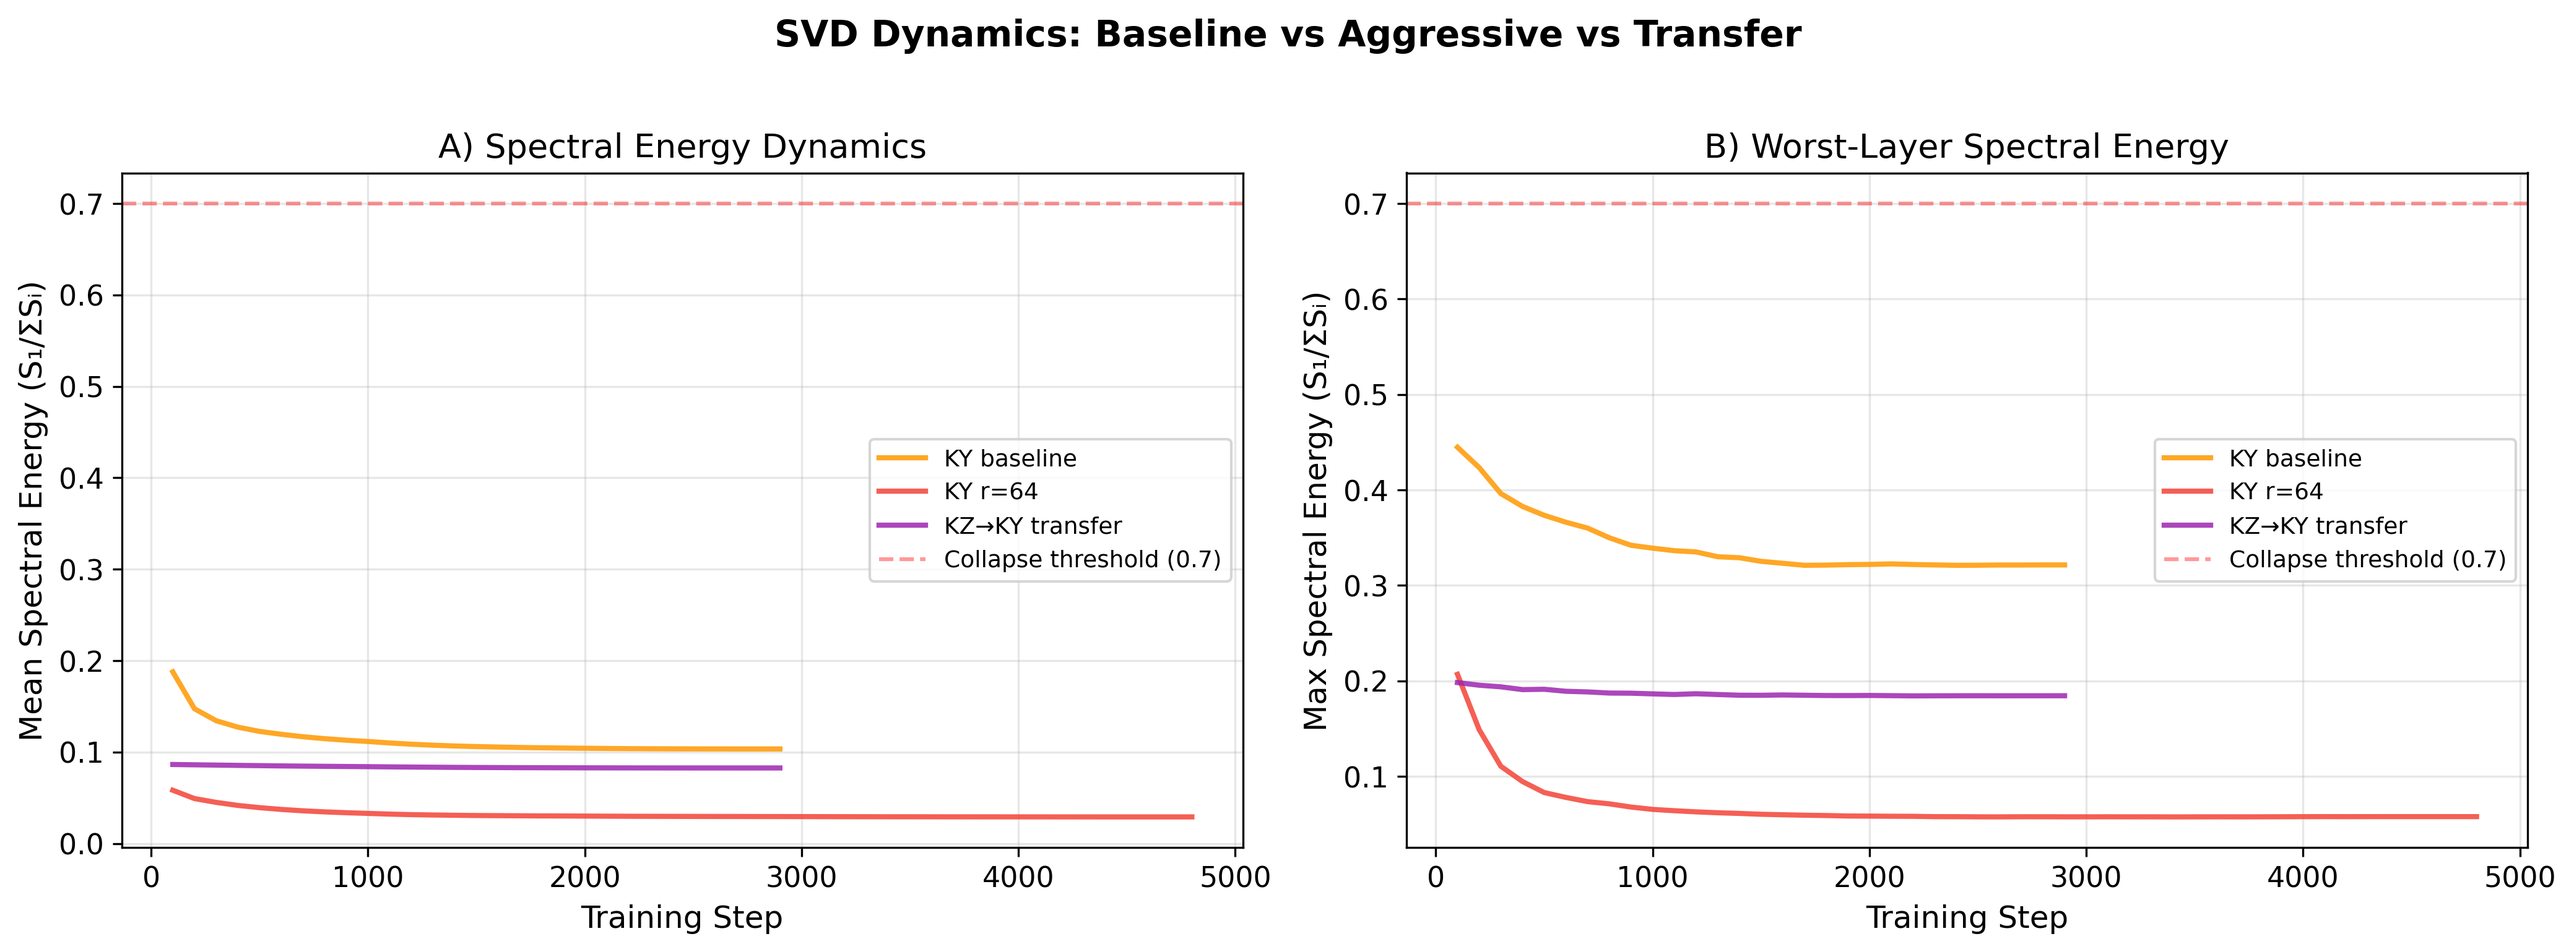
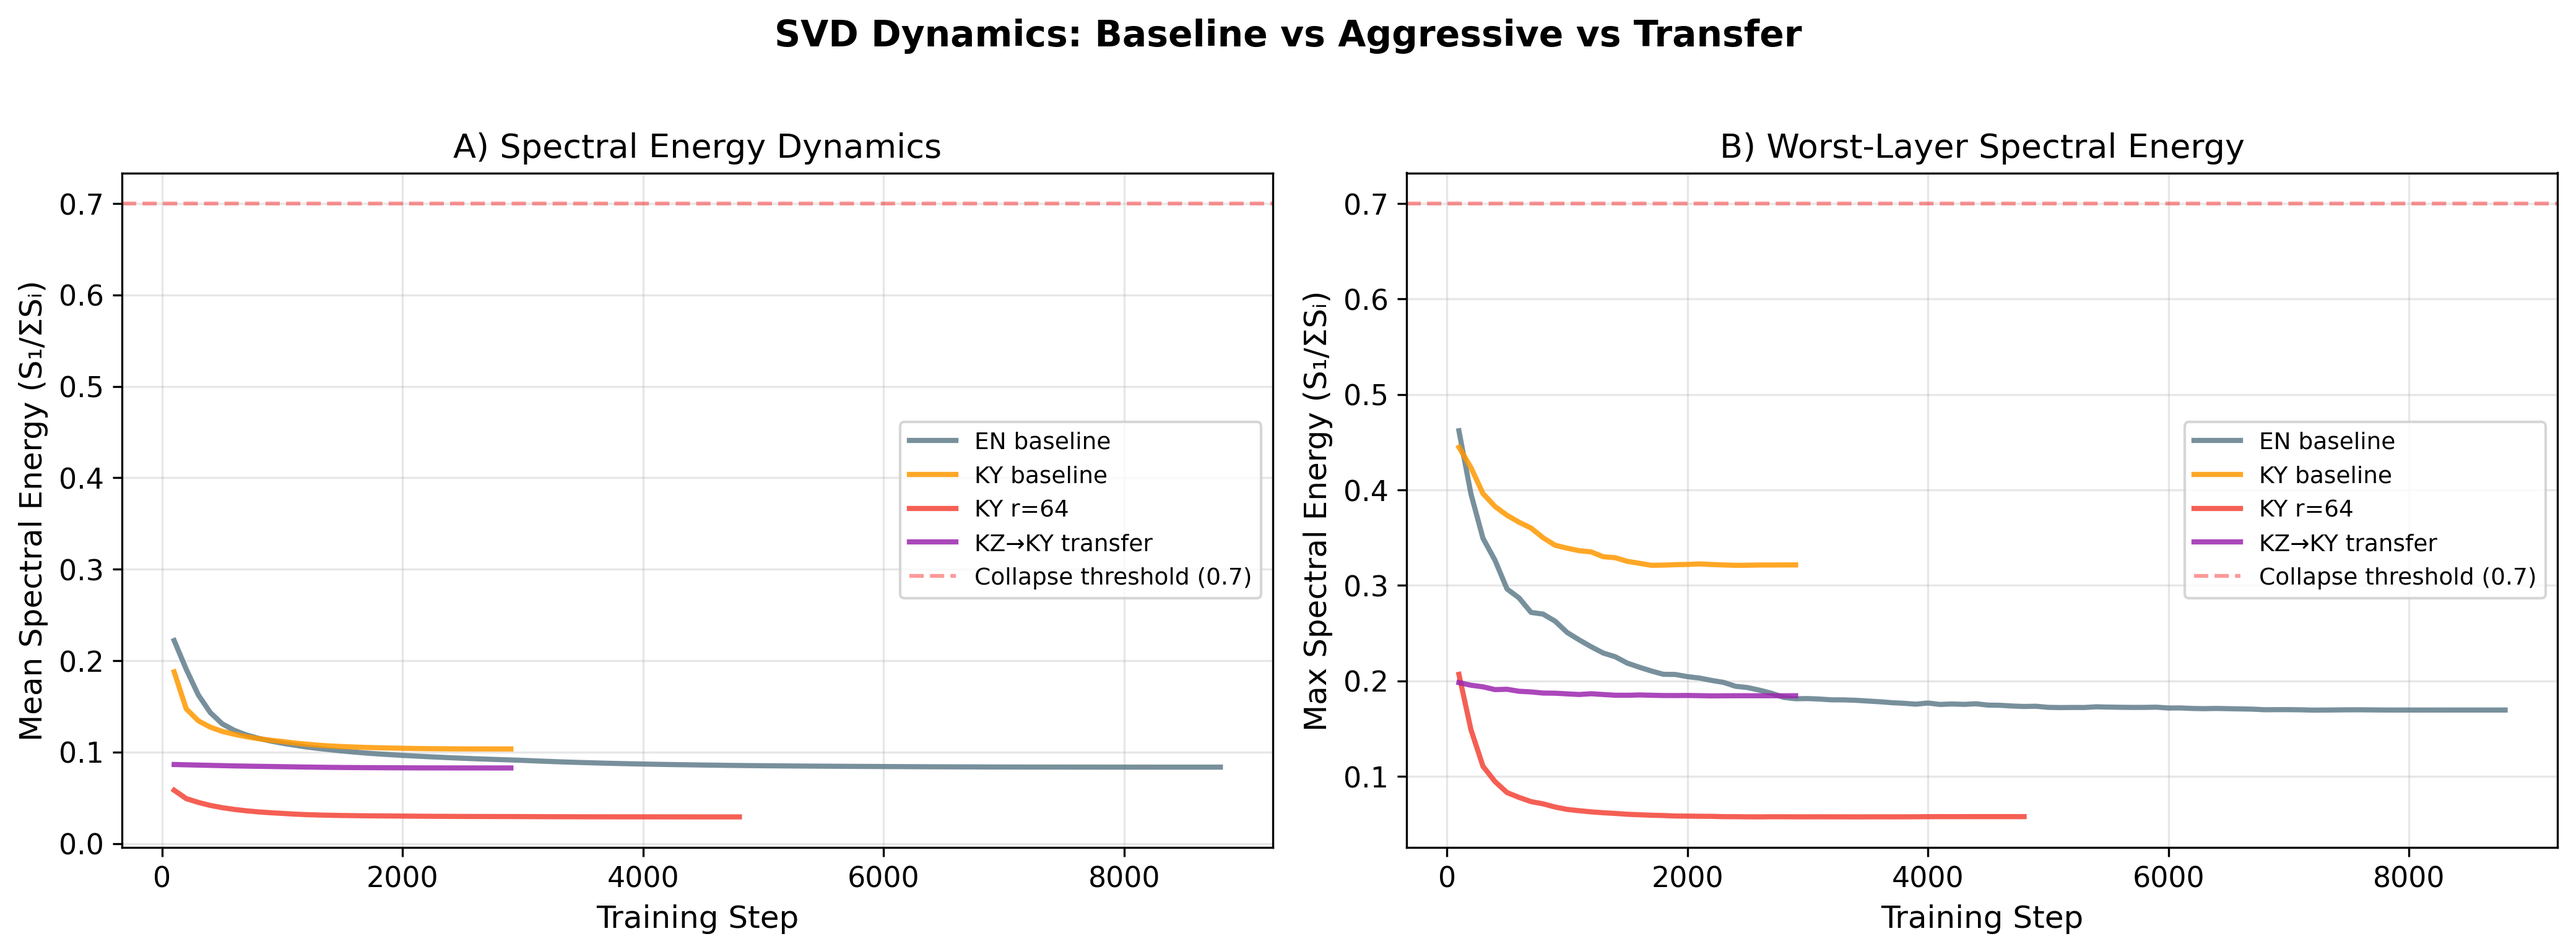
Add collapse examples appendix, EN on SVD plots

diff --git a/paper/main.tex b/paper/main.tex
@@ -592,4 +592,21 @@ KZ$\rightarrow$KY & 33.7\% & 31.7\% & 30.8\% \\
 \label{tab:tumlu_full}
 \end{table}
 
+\section{Functional Collapse: Raw Output Examples}
+\label{app:collapse_examples}
+
+To illustrate the nature of functional collapse at $r{=}64$, we present raw model outputs for two tasks. The model completely ignores instructions and exhibits degenerate repetition.
+
+\textbf{NER prompt:} \texttt{Extract named entities from the text. Format each as: ENTITY ||| TYPE}
+
+\texttt{Text: Бишкекте Кыргыз Республикасынын Президенти Садыр Жапаров менен Казакстандын Президенти Касым-Жомарт Токаев жолукту.}
+
+\textbf{$r{=}64$ output:} \texttt{Кыргыз Республикасынын Президентинин кызматына кандидат болгон. Кыргыз Республикасынын Президентинин кызматына кандидат болгон. Кыргыз Республикасынын Президентинин кызматына кандидат болгон...} (repeats indefinitely)
+
+\textbf{Text continuation prompt:} \texttt{Кыргызстан --- это}
+
+\textbf{$r{=}64$ output:} \texttt{не только, не только, не только, не только, не только...} (single bigram repeated 25+ times until max tokens)
+
+Both examples demonstrate that the model has lost instruction-following capability entirely. Rather than extracting entities or generating coherent text, it produces degenerate repetitions---a hallmark of functional collapse distinct from spectral collapse.
+
 \end{document}

diff --git a/scripts/plot_final.py b/scripts/plot_final.py
@@ -164,8 +164,8 @@ def fig1_eval_summary():
 def fig2_svd_dynamics():
     fig, axes = plt.subplots(1, 2, figsize=(14, 5))
 
-    # Compare: KY baseline vs KY r=64 vs KZ→KY transfer
-    compare = ["KY baseline", "KY r=64", "KZ→KY transfer"]
+    # Compare: EN vs KY baseline vs KY r=64 vs KZ→KY transfer
+    compare = ["EN baseline", "KY baseline", "KY r=64", "KZ→KY transfer"]
 
     # --- Panel A: Mean SE over steps ---
     ax = axes[0]
@@ -234,7 +234,7 @@ def fig2_svd_dynamics():
 # Figure 3: Layer-wise SE Heatmap (final checkpoint)
 # ════════════════════════════════════════════════════════════════════
 def fig3_layer_heatmap():
-    compare = ["KY baseline", "KY 10ep", "KY r=64", "KZ→KY transfer", "KZ baseline"]
+    compare = ["EN baseline", "KY baseline", "KY 10ep", "KY r=64", "KZ→KY transfer", "KZ baseline"]
 
     # Collect final-step SE per layer for each experiment
     all_data = {}
